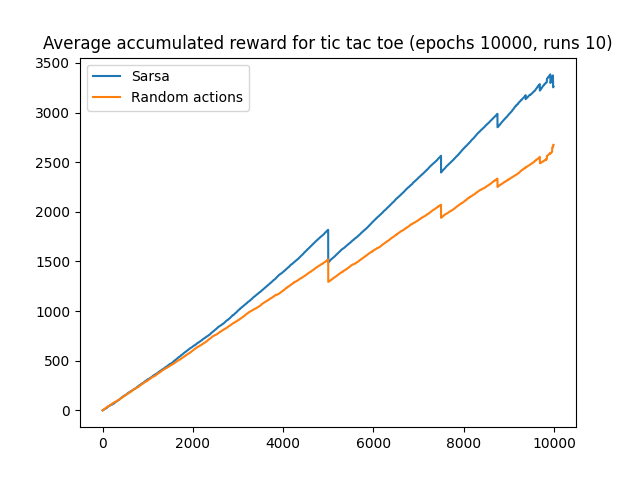
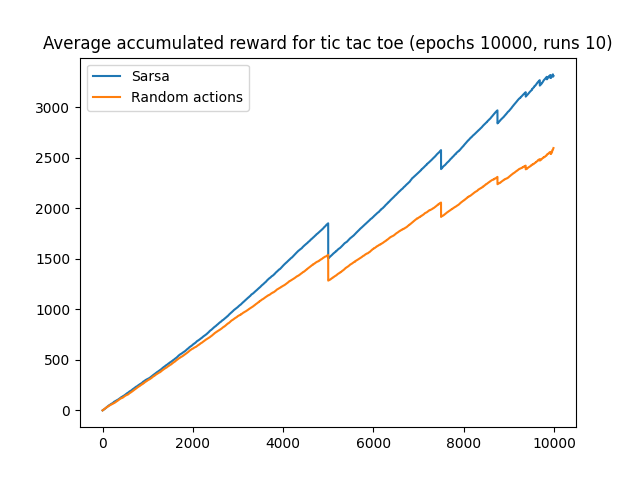
Implemented remaining td algorithms from rl-book

diff --git a/rl/rl-book/temporal-difference-learning/double_q_learning.py b/rl/rl-book/temporal-difference-learning/double_q_learning.py
@@ -1,5 +1,5 @@
 """
-Section 6.5 -> page 131
+Section 6.7 -> page 136
 """
 from optimization_utils.envs.TicTacToe import TicTacToe
 import matplotlib.pyplot as plt
@@ -8,13 +8,14 @@ from helpers.action_policy.Epsilon import EpsilonGreedy
 from helpers.action_policy.softmax_soft_policy import SoftmaxSoftPolicy
 import random
 from helpers.play_tic_tac_toe_vs_random_agent import play_tic_tac_toe
-from helpers.play_grid_world_vs_random_agent import play_grid_world
 from helpers.State import State
 import os
+import numpy as np
 
-class Q_learning:
+class Double_Q_learning:
     def __init__(self, action, eps=1, decay=0.9999) -> None:
-        self.q = State(action)
+        self.q_1 = State(action)
+        self.q_2 = State(action)
         self.epsilon = EpsilonGreedy(
             actions=-1,
             eps=eps,
@@ -28,14 +29,17 @@ class Q_learning:
         return random.sample(self.env.legal_actions, k=1)[0]
 
     def on_policy(self):
-        return self.softmax(self.q[str(self.env)].np(), legal_actions=self.env.legal_actions)
+        return self.softmax((
+            self.q_1[str(self.env)].np() + 
+            self.q_2[str(self.env)].np()
+        ), legal_actions=self.env.legal_actions)
 
     def get_action(self):
         action = self.epsilon(self)
         return action
 
     def train(self, env: TicTacToe):
-        alpha = 0.8
+        alpha = 0.4
         gamma = 0.8
         self.env = env
 
@@ -47,13 +51,25 @@ class Q_learning:
 
             next_state = str(env.state)
 
-            self.q[state][action] += alpha * (
-                reward + gamma * self.q[next_state].max() - 
-                            self.q[state][action]
-            )
+            if 0.5 < np.random.rand():
+                self.q_1[state][action] += alpha * (
+                    reward + gamma * 
+                    self.q_2[next_state][
+                        self.q_1[next_state].argmax()
+                    ] - 
+                    self.q_1[state][action]
+                )
+            else:
+                self.q_2[state][action] += alpha * (
+                    reward + gamma * 
+                    self.q_1[next_state][
+                        self.q_2[next_state].argmax()
+                    ] - 
+                    self.q_2[state][action]
+                )
             sum_rewards += reward
         return sum_rewards
 
 if __name__ == "__main__":
-    play_tic_tac_toe(Q_learning, dirname=os.path.dirname(os.path.abspath(__file__)))
+    play_tic_tac_toe(Double_Q_learning, dirname=os.path.dirname(os.path.abspath(__file__)))
     

diff --git a/rl/rl-book/temporal-difference-learning/expected_sarsa.py b/rl/rl-book/temporal-difference-learning/expected_sarsa.py
@@ -1,5 +1,5 @@
 """
-Section 6.5 -> page 131
+Section 6.6 -> page 133
 """
 from optimization_utils.envs.TicTacToe import TicTacToe
 import matplotlib.pyplot as plt
@@ -8,17 +8,17 @@ from helpers.action_policy.Epsilon import EpsilonGreedy
 from helpers.action_policy.softmax_soft_policy import SoftmaxSoftPolicy
 import random
 from helpers.play_tic_tac_toe_vs_random_agent import play_tic_tac_toe
-from helpers.play_grid_world_vs_random_agent import play_grid_world
 from helpers.State import State
 import os
 
-class Q_learning:
-    def __init__(self, action, eps=1, decay=0.9999) -> None:
+
+class ExpectedSarsa:
+    def __init__(self, action) -> None:
         self.q = State(action)
         self.epsilon = EpsilonGreedy(
             actions=-1,
-            eps=eps,
-            decay=decay,
+            eps=1,
+            decay=0.9999,
             search=self.search
         )
         self.is_training = True
@@ -39,7 +39,6 @@ class Q_learning:
         gamma = 0.8
         self.env = env
 
-        sum_rewards = 0
         while not env.done:
             state = str(env.state)
             action = self.get_action()
@@ -48,12 +47,17 @@ class Q_learning:
             next_state = str(env.state)
 
             self.q[state][action] += alpha * (
-                reward + gamma * self.q[next_state].max() - 
-                            self.q[state][action]
+                reward + gamma * sum(
+                    [
+                        self.q[next_state][action] *
+                        self.softmax.softmax(self.q[next_state].np())[action]
+                        for action in range(env.action_space)
+                    ]
+                ) -
+                self.q[state][action]
             )
-            sum_rewards += reward
-        return sum_rewards
+
 
 if __name__ == "__main__":
-    play_tic_tac_toe(Q_learning, dirname=os.path.dirname(os.path.abspath(__file__)))
-    
+    play_tic_tac_toe(ExpectedSarsa, dirname=os.path.dirname(
+        os.path.abspath(__file__)))

diff --git a/rl/rl-book/helpers/play_cliff_walking_vs_agent.py b/rl/rl-book/helpers/play_cliff_walking_vs_agent.py
@@ -1,0 +1,49 @@
+from optimization_utils.envs.CliffWalking import CliffWalking
+import matplotlib.pyplot as plt
+import os
+from optimization_utils.diagnostics.Diagnostics import Diagnostics
+from helpers.analysis.Parameter import Parameter
+from .random_agents import RandomAgent
+
+EVALUATION_RUNS = 30
+EPOCHS = 500
+
+def evaluate_agent(env, agent_instance):
+    agent_parameter = Parameter(None, None)
+
+    for _ in range(EVALUATION_RUNS):
+        agent = agent_instance(env.action_space, eps=0.1, decay=1)
+        agent_diagnostics = Diagnostics()
+
+        with agent_parameter as p:
+            for epoch in range(EPOCHS):
+                reward = agent.train(env)
+
+                agent_diagnostics.reward(reward)
+                p.add_reward(reward)
+
+                env.reset()
+
+                if epoch % 1_000 == 0:
+                    agent_diagnostics.print(epoch)
+    return agent_parameter
+    
+def play_cliff_walking(first_agent_instance, second_agent_instance=RandomAgent, dirname="."):
+    env = CliffWalking(n=3)
+
+    first_agent_parameter = evaluate_agent(env, first_agent_instance)
+    second_agent_parameter = evaluate_agent(env, first_agent_instance)
+
+    plt.plot(first_agent_parameter.get_reward(), label=first_agent_instance.__name__)
+    plt.plot(second_agent_parameter.get_reward(), label=second_agent_instance.__name__)
+    plt.xlabel('Episodes')
+    plt.ylabel('Sum of reward in episode')
+    plt.title(
+        f"Average accumulated reward for cliff walking (epochs {EPOCHS}, runs {EVALUATION_RUNS})")
+    plt.legend(loc="upper left")
+    plt.savefig(
+        os.path.join(
+            dirname,
+            first_agent_instance.__name__ + "_" + second_agent_instance.__name__ + '_cliff_walking.png'
+        )
+    )

diff --git a/rl/rl-book/helpers/play_tic_tac_toe_vs_random_agent.py b/rl/rl-book/helpers/play_tic_tac_toe_vs_random_agent.py
@@ -4,9 +4,10 @@ import random
 import os
 from optimization_utils.diagnostics.Diagnostics import Diagnostics
 from helpers.analysis.Parameter import Parameter
+import json
 
 def play_tic_tac_toe(agent_instance, dirname="."):
-    EVALUATION_RUNS = 10
+    EVALUATION_RUNS = 5
     EPOCHS = 10_000
 
     env = TicTacToe(n=3, is_auto_mode=True)
@@ -52,7 +53,8 @@ def play_tic_tac_toe(agent_instance, dirname="."):
 
     plt.plot(agent_parameter.get_reward(), label=agent_instance.__name__)
     plt.plot(random_parameter.get_reward(), label="Random actions")
-    plt.title(f"Average accumulated reward for tic tac toe (epochs {EPOCHS}, runs {EVALUATION_RUNS})")
+    plt.title(
+        f"Average accumulated reward for tic tac toe (epochs {EPOCHS}, runs {EVALUATION_RUNS})")
     plt.legend(loc="upper left")
     plt.savefig(
         os.path.join(
@@ -60,3 +62,10 @@ def play_tic_tac_toe(agent_instance, dirname="."):
             agent_instance.__name__ + '_tic_tac_toe.png'
         )
     )
+
+    with open(
+            os.path.join(dirname, ".data", agent_instance.__name__ + ".json"), "w") as file:
+        json.dump({
+            "agent": agent_parameter.get_reward(),
+            "random": random_parameter.get_reward()
+        }, file)

diff --git a/rl/rl-book/temporal-difference-learning/sarsa.py b/rl/rl-book/temporal-difference-learning/sarsa.py
@@ -1,5 +1,5 @@
 """
-Section 6.2 -> page 130
+Section 6.3 -> page 130
 """
 from optimization_utils.envs.TicTacToe import TicTacToe
 import matplotlib.pyplot as plt
@@ -13,12 +13,12 @@ from helpers.State import State
 import os
 
 class Sarsa:
-    def __init__(self, action) -> None:
+    def __init__(self, action, eps=1, decay=0.9999) -> None:
         self.q = State(action)
         self.epsilon = EpsilonGreedy(
             actions=-1,
-            eps=1,
-            decay=0.9999,
+            eps=eps,
+            decay=decay,
             search=self.search
         )
 
@@ -50,6 +50,7 @@ class Sarsa:
 
         action = self.get_action()
         state = str(env.state)
+        sum_rewards = 0
         while not env.done:
             reward = env.play(action)
 
@@ -66,6 +67,8 @@ class Sarsa:
                 )
             action = next_action
             state = next_state
+            sum_rewards += reward
+        return sum_rewards
 
 if __name__ == "__main__":
     play_tic_tac_toe(Sarsa, dirname=os.path.dirname(os.path.abspath(__file__)))

diff --git a/rl/rl-book/helpers/random_agents.py b/rl/rl-book/helpers/random_agents.py
@@ -1,0 +1,12 @@
+import random
+
+class RandomAgent:
+    def __init__(self, **kwargs) -> None:
+        pass
+
+    def train(self, env):
+        while not env.done:
+            env.play(self.action(env))
+
+    def action(self, env):
+        return  env.play(random.sample(env.legal_actions, k=1)[0])

diff --git a/rl/rl-book/temporal-difference-learning/evaluate_sarsa_vs_q_learning.py b/rl/rl-book/temporal-difference-learning/evaluate_sarsa_vs_q_learning.py
@@ -1,0 +1,9 @@
+from .q_learning import Q_learning
+from .sarsa import Sarsa
+from helpers.play_cliff_walking_vs_agent import play_cliff_walking
+
+if __name__ == "__main__":
+    play_cliff_walking(
+        Q_learning,
+        Sarsa
+    )

diff --git a/readme.md b/readme.md
@@ -1,12 +1,14 @@
 # optimization playground
 
 
-| **Paper / Project**                                      | **Goal**                                                      | **Done ?**                                                                                                   |
-| -------------------------------------------------------- | ------------------------------------------------------------- | ------------------------------------------------------------------------------------------------------------ |
-| **RL**                                                   |                                                               |                                                                                                              |
-| [Rl-book](http://incompleteideas.net/book/the-book.html) | Reproduce plots, and implement methods                        | WIP - [rl/rl-book](https://github.com/2xic/optimization-playground/tree/main/rl/rl-book/multi-armed-bandits) |
-| **NLP**                                                  |                                                               |                                                                                                              |
-| GPT                                                      | Implement the GPT model, and train it on tweets for embedding | WIP - nlp/gpt                                                                                                |
+| **Paper / Project**                                      | **Goal**                                                                   | **Location**                | **Status** |
+| -------------------------------------------------------- | -------------------------------------------------------------------------- | --------------------------- | ---------- |
+| **RL**                                                   |                                                                            |                             |            |
+| [Rl-book](http://incompleteideas.net/book/the-book.html) | Reproduce plots, and implement methods                                     | [rl/rl-book](./rl/rl-book/) | WIP        |
+| **NLP**                                                  |                                                                            |                             |            |
+| GPT                                                      | Look at components for the GPT model, and train it on tweets for embedding | [nlp/gpt](.nlp/gpt)         | Deadline   |
+| **CV**                                                   |                                                                            |                             |            |
+| [CLIP](https://openai.com/blog/clip/)                    | Look at components for the CLIP model, and create a mvp model              | todo                        | todo       |
 
 
 ### Reflection from 2022

diff --git a/rl/rl-book/readme.md b/rl/rl-book/readme.md
@@ -30,17 +30,17 @@ Reproducing figure and algorithms from [Reinforcement Learning: An Introduction]
 [Algorithm - Off-policy MC control, for estimating policy](./monte_carlo_methods/off_policy_mc_control.py)
 
 ### Chapter 6 - Temporal-Difference learning
-[Algorithm - Tabular TD (0) for estimating value_policy](./temportal-differene/tabluar_td_0.py)
+[Algorithm - Tabular TD (0) for estimating value_policy](./temporal-difference-learning/tabluar_td_0.py)
 
-[Algorithm - Sarsa (On-policy TD control) for estimating](./temportal-differene/sarsa.py)
+[Algorithm - Sarsa (On-policy TD control) for estimating](./temporal-difference-learning/sarsa.py)
 
-[Algorithm - Q-Learning (Off-policy TD-control) for estimating policy](./temportal-differene/q_learning.p)
+[Algorithm - Q-Learning (Off-policy TD-control) for estimating policy](./temporal-difference-learning/q_learning.py)
 
-(todo) Figure ??? - Q-Learning vs Sarsa
+[Figure on page 132 - Q-Learning vs Sarsa (does not match the book plot well currently)](./temporal-difference-learning/Q_learning_Sarsa_cliff_walking.png)
 
 (todo) Figure 6.3 - TD-Control performance
 
 (todo) Figure 6.5 - Comparison of Q-Learning and Double Q-Learning
 
-(todo) Algorithm - Double Q-Learning for estimating Q
+[Algorithm - Double Q-Learning for estimating Q](./temporal-difference-learning/double_q_learning.py)
 

diff --git a/rl/rl-book/temporal-difference-learning/readme.md b/rl/rl-book/temporal-difference-learning/readme.md
@@ -1,0 +1,2 @@
+## Q-Learning vs Sarsa (page 132)
+![Q-Learning vs Sarsa](./Q_learning_Sarsa_cliff_walking.png)

diff --git a/computer-vision/clip/readme.md b/computer-vision/clip/readme.md
@@ -1,0 +1,2 @@
+[Paper](https://arxiv.org/pdf/2103.00020.pdf)
+[Blog post](https://openai.com/blog/clip/)
